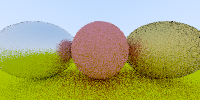
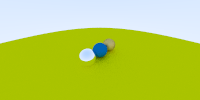
chapter 10

diff --git a/Ray Tracing/src/material.h b/Ray Tracing/src/material.h
@@ -52,4 +52,61 @@ class metal : public material {
 		float fuzz;
 };
 
+bool refract(const vec3& v, const vec3& n, float ni_over_nt, vec3& refracted) {
+	vec3 uv = unit_vector(v);
+	float dt = dot(uv, n);
+	float discriminant = 1.0 - ni_over_nt * ni_over_nt*(1 - dt * dt);
+	if (discriminant > 0) {
+		refracted = ni_over_nt * (uv - n * dt) - n * sqrt(discriminant);
+		return true;
+	}
+	else
+		return false;
+}
+
+float schlick(float cosine, float ref_idx) {
+	float r0 = (1 - ref_idx) / (1 + ref_idx);
+	r0 = r0 * r0;
+	return r0 + (1 - r0)*pow((1 - cosine), 5);
+}
+
+class dielectric : public material {
+	public:
+		dielectric(float ri) : ref_idx(ri) {}
+		virtual bool scatter(const ray& r_in, const hit_record& rec, vec3& attenuation, ray& scattered) const {
+			vec3 outward_normal;
+			vec3 reflected = reflect(r_in.direction(), rec.normal);
+			float ni_over_nt;
+			attenuation = vec3(1.0, 1.0, 1.0);
+			vec3 refracted;
+			float reflect_prob;
+			float cosine;
+			if (dot(r_in.direction(), rec.normal) > 0) {
+				outward_normal = -rec.normal;
+				ni_over_nt = ref_idx;
+				cosine = ref_idx * dot(r_in.direction(), rec.normal) / r_in.direction().length();
+			}
+			else {
+				outward_normal = rec.normal;
+				ni_over_nt = 1.0 / ref_idx;
+				cosine = -dot(r_in.direction(), rec.normal) / r_in.direction().length();
+			}
+			if (refract(r_in.direction(), outward_normal, ni_over_nt, refracted)){
+				reflect_prob = schlick(cosine, ref_idx);
+			} else {
+				scattered = ray(rec.p, reflected);
+				reflect_prob = 1.0;
+			}
+			if (((double)rand() / (RAND_MAX)) < reflect_prob) {
+				scattered = ray(rec.p, reflected);
+			}
+			else {
+				scattered = ray(rec.p, reflected);
+			}
+			return true;
+		}
+
+		float ref_idx;
+};
+
 #endif

diff --git a/Ray Tracing/src/camera.h b/Ray Tracing/src/camera.h
@@ -1,17 +1,26 @@
 #ifndef CAMERAH
 #define CAMERAH
+#define M_PI 3.14159265358979323846264338327950288
 
 #include "ray.h"
 
 class camera {
 	public:
-		camera() {
-			lower_left_corner = vec3(-2.0, -1.0, -1.0);
-			horizontal = vec3(4.0, 0.0, 0.0);
-			vertical = vec3(0.0, 2.0, 0.0);
-			origin = vec3(0.0, 0.0, 0.0);
+		camera(vec3 lookfrom, vec3 lookat, vec3 vup, float vfov, float aspect) {
+			vec3 u, v, w;
+			float theta = vfov * M_PI / 180;
+			float half_height = tan(theta / 2);
+			float half_width = aspect * half_height;
+			origin = lookfrom;
+			w = unit_vector(lookfrom - lookat);
+			u = unit_vector(cross(vup, w));
+			v = cross(w, u);
+			lower_left_corner = vec3(-half_width, -half_height, -1.0);
+			lower_left_corner = origin - half_width * u - half_height * v - w;
+			horizontal = 2*half_width*u;
+			vertical = 2*half_height*v;
 		}
-		ray get_ray(float u, float v) { return ray(origin, lower_left_corner + u * horizontal + v * vertical - origin); }
+		ray get_ray(float s, float t) { return ray(origin, lower_left_corner + s * horizontal + t * vertical - origin); }
 
 		vec3 origin;
 		vec3 lower_left_corner;

diff --git a/Ray Tracing/src/main.cpp b/Ray Tracing/src/main.cpp
@@ -41,13 +41,15 @@ int main() {
 	//Crar vector
 	std::vector<unsigned char> pixels;
 
-	hitable *list[4];
-	list[0] = new sphere(vec3(0, 0, -1), 0.5, new lambertian(vec3(0.8, 0.3, 0.3)));
+	hitable *list[5];
+	float R = cos(M_PI / 4);
+	list[0] = new sphere(vec3(0, 0, -1), 0.5, new lambertian(vec3(0, 0.2, 0.5)));
 	list[1] = new sphere(vec3(0, -100.5, -1), 100, new lambertian(vec3(0.8, 0.8, 0.0)));
 	list[2] = new sphere(vec3(1, 0, -1), 0.5, new metal(vec3(0.8, 0.6, 0.2), 1.0));
-	list[3] = new sphere(vec3(-1, 0, -1), 0.5, new metal(vec3(0.8, 0.8, 0.8), 0.3));
-	hitable *world = new hitable_list(list, 4);
-	camera cam;
+	list[3] = new sphere(vec3(-1, 0, -1), 0.5, new dielectric(1.5));
+	list[4] = new sphere(vec3(-1, 0, -1), -0.45, new dielectric(1.5));
+	hitable *world = new hitable_list(list, 5);
+	camera cam(vec3(-2,2,1), vec3(0,0,-1), vec3(0,1,0), 90, float(nx)/float(ny));
 
 	
 	for (int j = ny-1; j >= 0; j--) {
